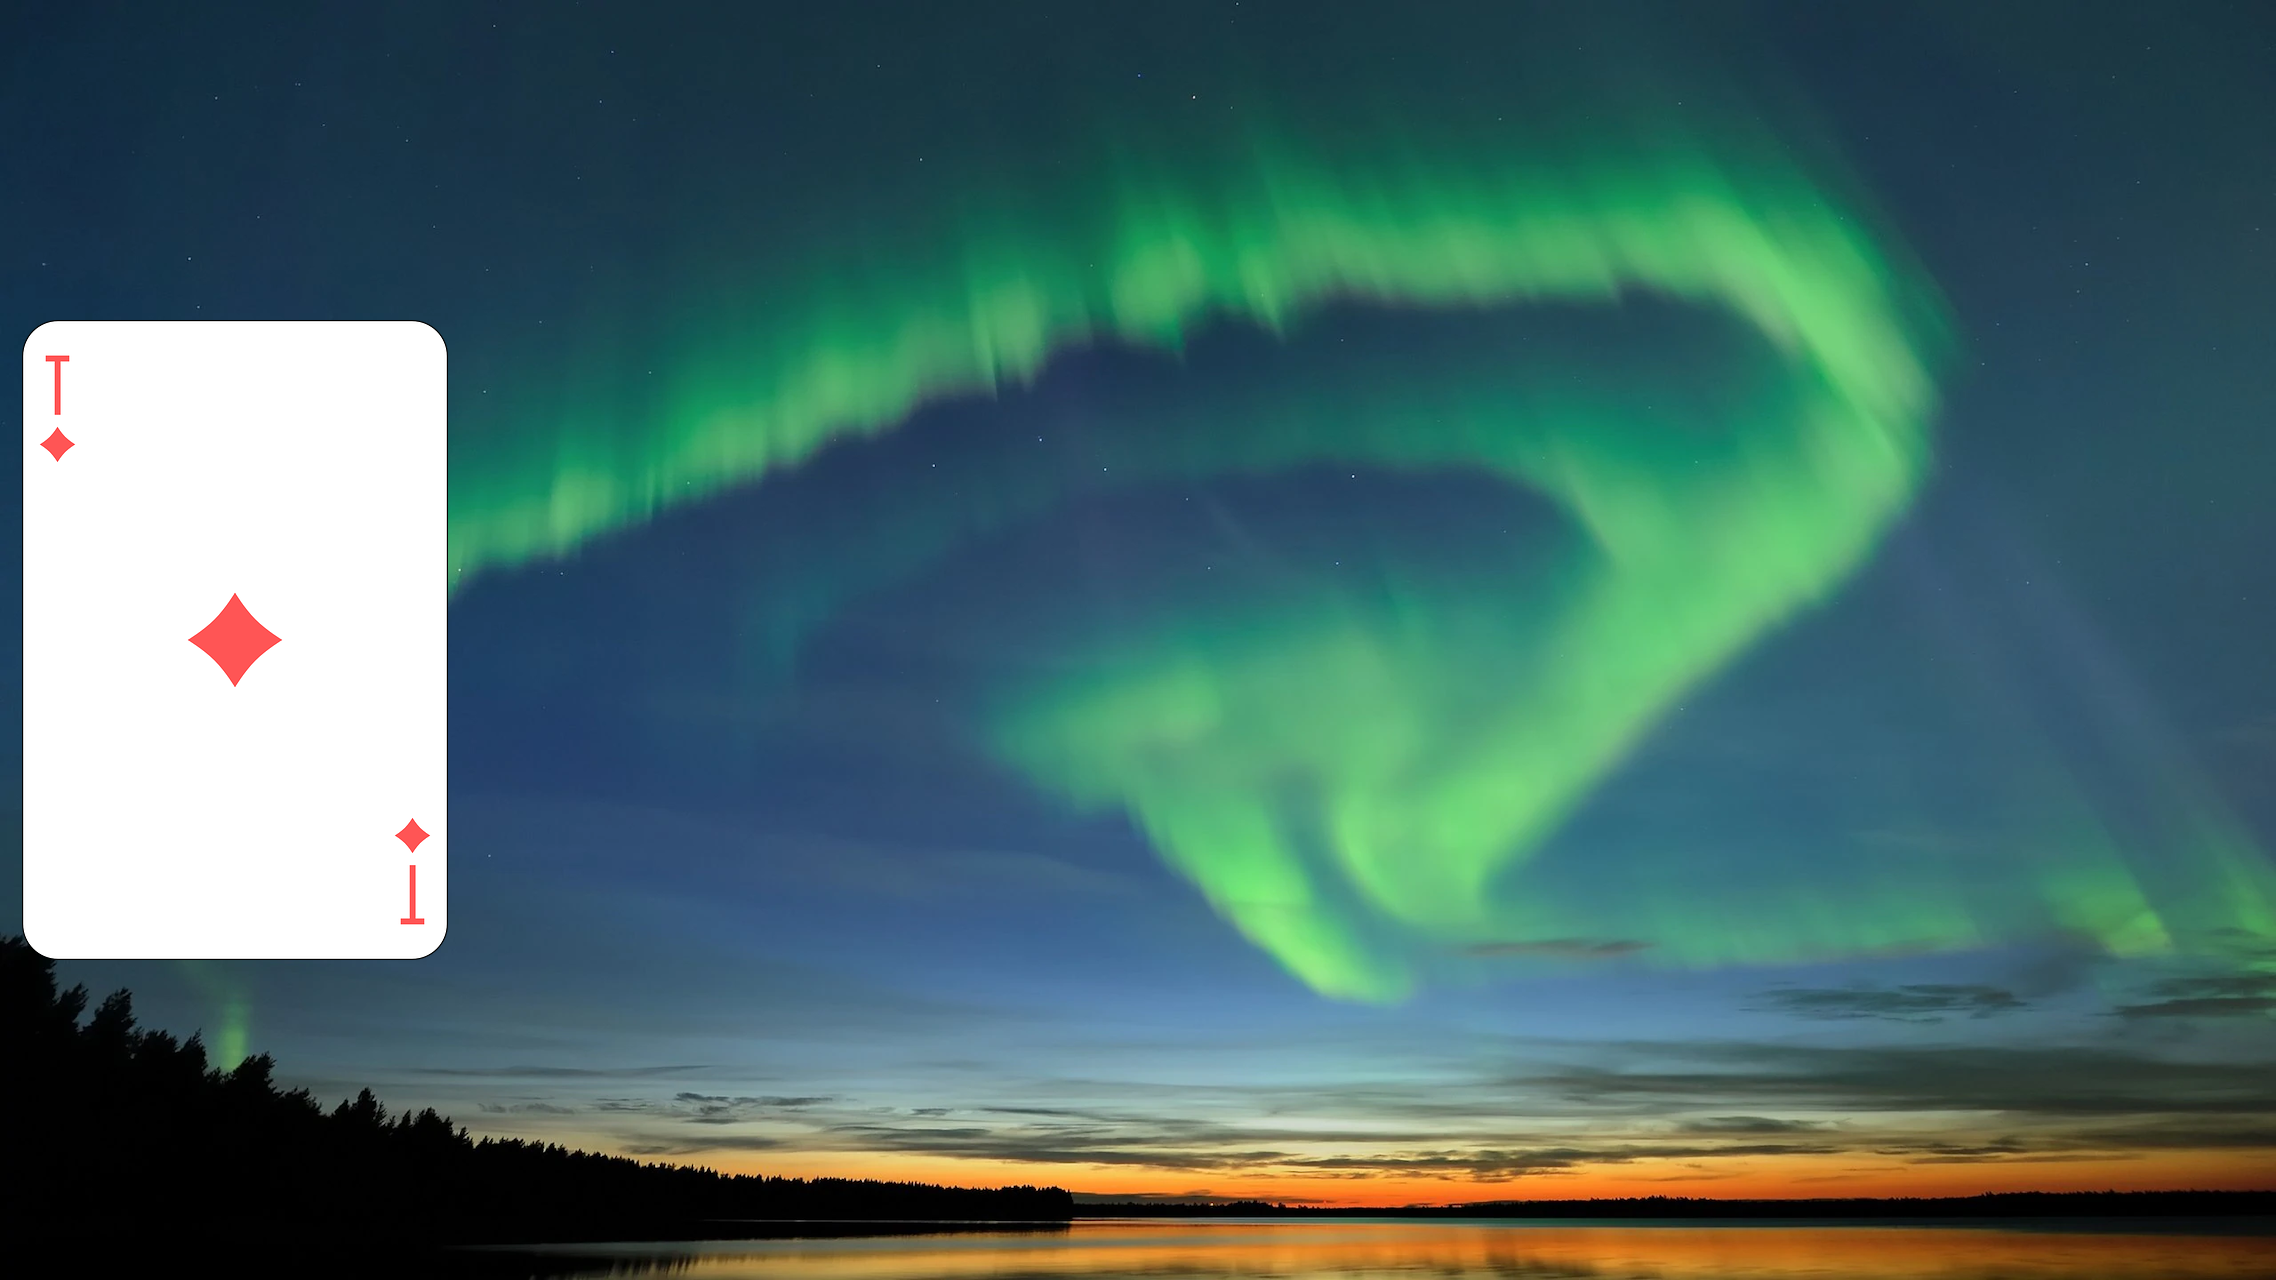
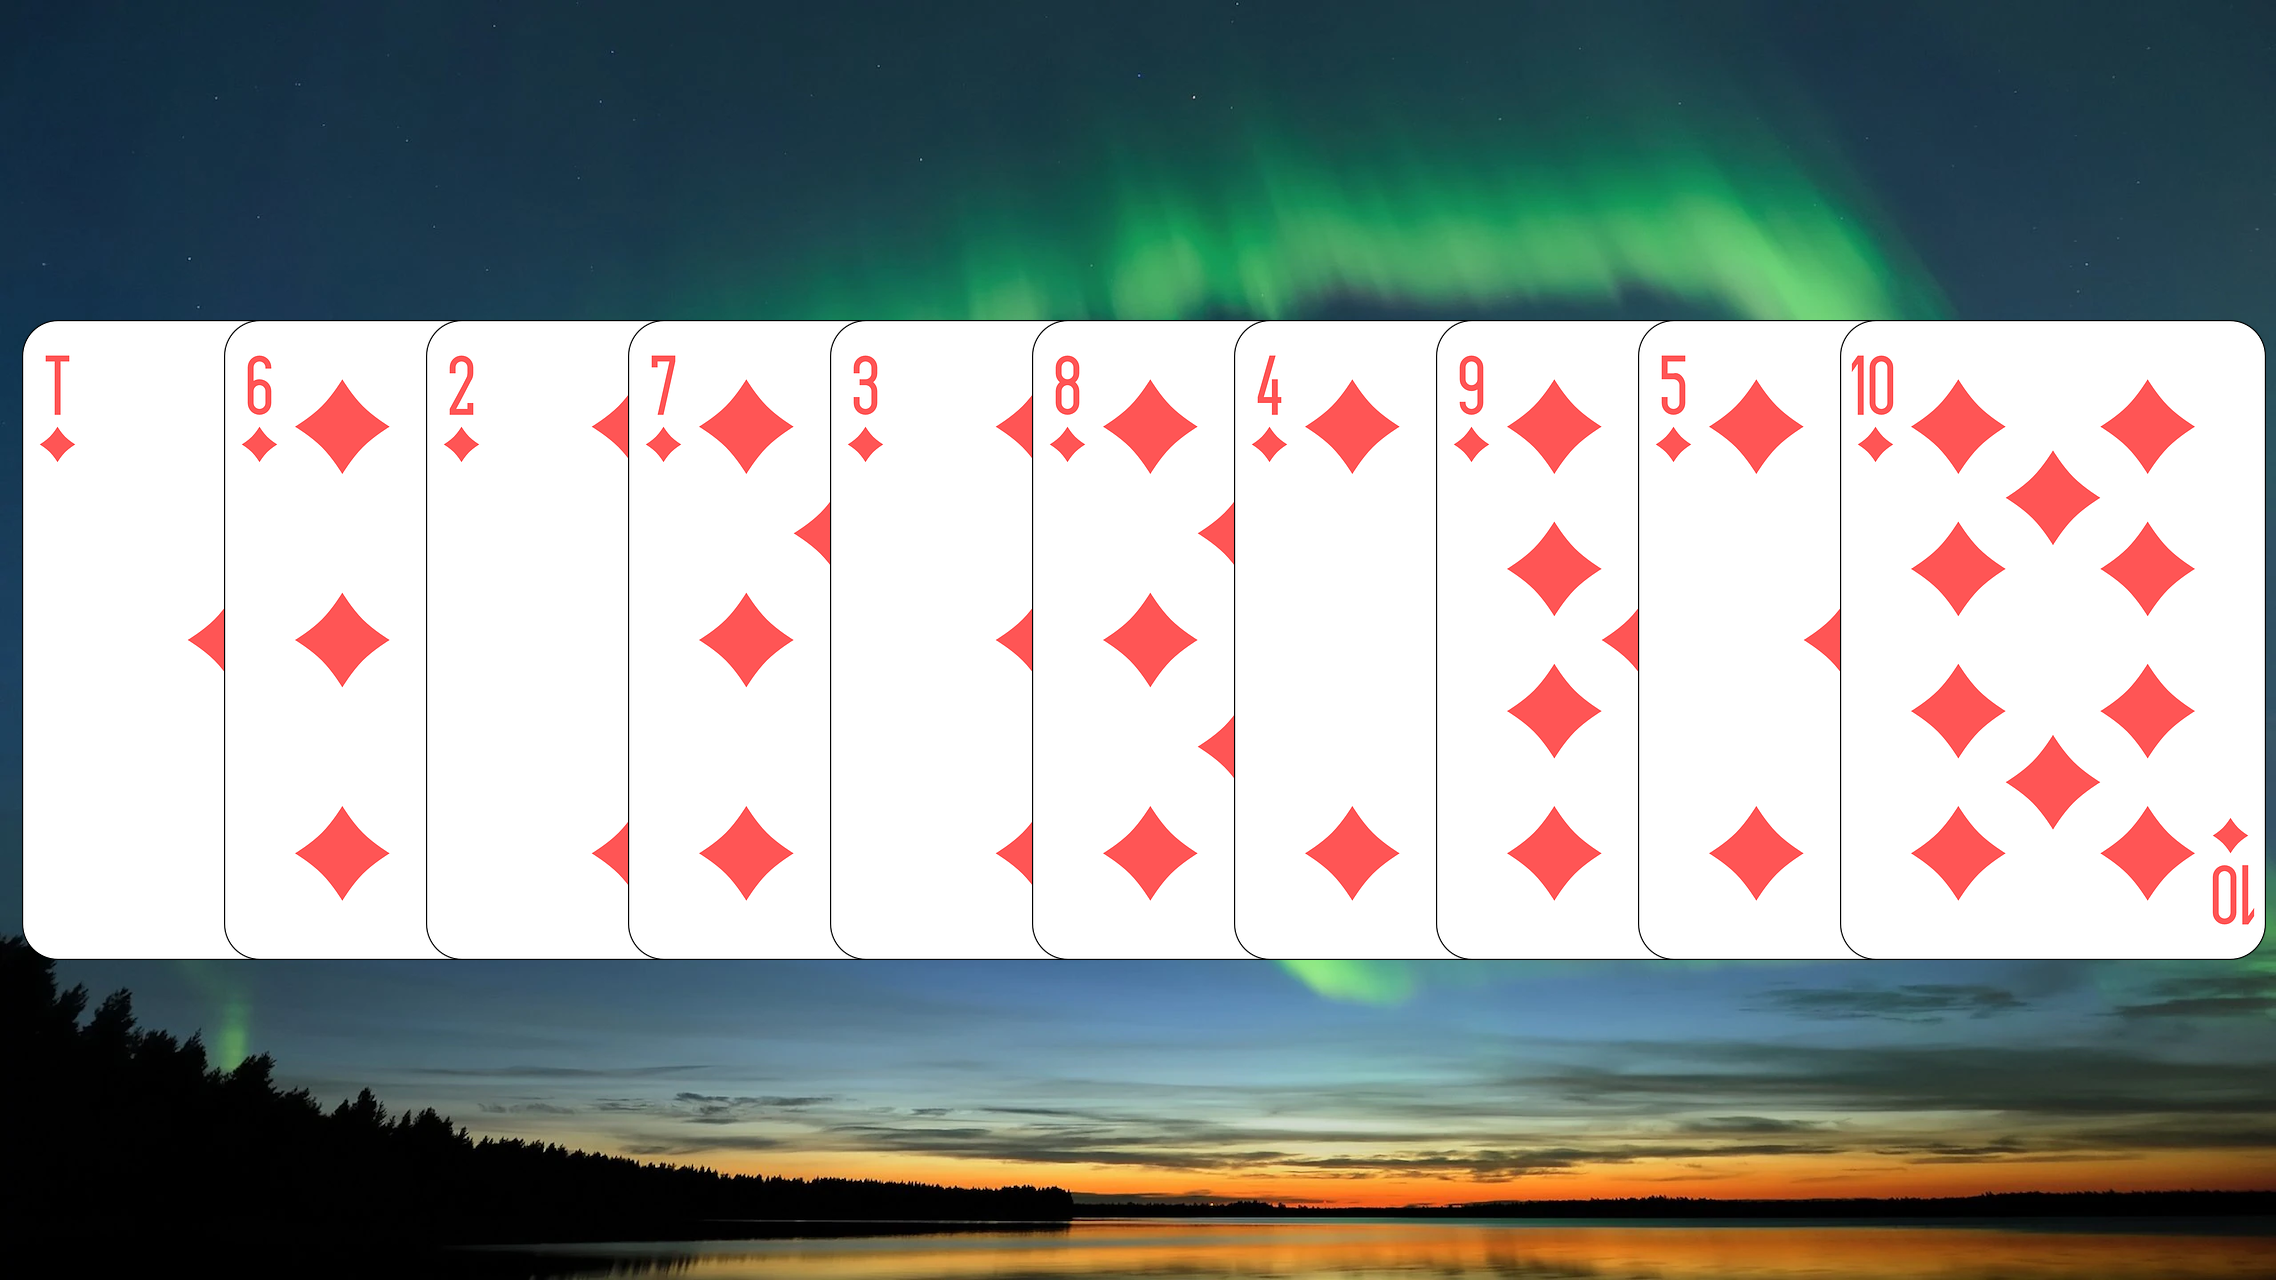
shuffleList fixed

diff --git a/Lab5_Gdb/lab5_gdb/shuffleCards.cpp b/Lab5_Gdb/lab5_gdb/shuffleCards.cpp
@@ -35,17 +35,18 @@ void shuffleCards(){
 	// and then to arrange them on the output canvas in the shuffled order.
 	
 	// TODO, update the lines below as needed. Currently, the code works for one layer(card) only.
-	
-	// Each card layer should be defined as a sample layer below.
-	// No need to reposition the cards yet, as we will need to shuffle them first.
-	PNGLayer p(WIDTH, HEIGHT, Vector2(0.0, 0.0), Vector2(1.0, 1.0), RGBAPixel(255,255,255,255),"1");
+	for (int i = num_cards; i >= 1; i--) {
+		// Each card layer should be defined as a sample layer below.
+		// No need to reposition the cards yet, as we will need to shuffle them first.
+		PNGLayer p(WIDTH, HEIGHT, Vector2(0.0, 0.0), Vector2(1.0, 1.0), RGBAPixel(255,255,255,255), std::to_string(i));
 		
-	// Read each layer from the corresponging image file
-	p.readFromFile(INPUT_FILE + "1.png");
+		// Read each layer from the corresponging image file
+		p.readFromFile(INPUT_FILE + std::to_string(i) + ".png");
 
-	// Place the layers in the list
-	list.insertFront(p);
-
+		// Place the layers in the list
+		list.insertFront(p);
+	}
+	
 	// Now shuffle the layers
 	// You MUST use the shuffle function from the List class (our Autograder will check for it)
 	list.shuffle();
@@ -56,11 +57,17 @@ void shuffleCards(){
 	// index should start with 0 to go up to the size of the list according to the shuffle function
 	// This ist the way the layers should be ordered in the Canvas object.
 	// Set up the position of each layer according to index and dimensions
-	p.SetPosition(Vector2(WIDTH/100 + (WIDTH-WIDTH/9)/num_cards * index, HEIGHT/4));
+	List<PNGLayer>::ListIterator it = list.begin();
+	while (it != list.end()) {
+			PNGLayer currentLayer = *it;
+			currentLayer.SetPosition(Vector2(WIDTH/100 + (WIDTH-WIDTH/9)/num_cards * index, HEIGHT/4));
 	
-	//Add layers to the canvas
-	outputCanvas.Add(p);
-	
+			//Add layers to the canvas
+			outputCanvas.Add(currentLayer);
+
+			++it;
+			index++;
+	}
 	// Draw the canvas with properly shuffled layers on the final PNG object.
 	// This needs to be done just once after all the layers are added.
 	outputCanvas.draw(out);
